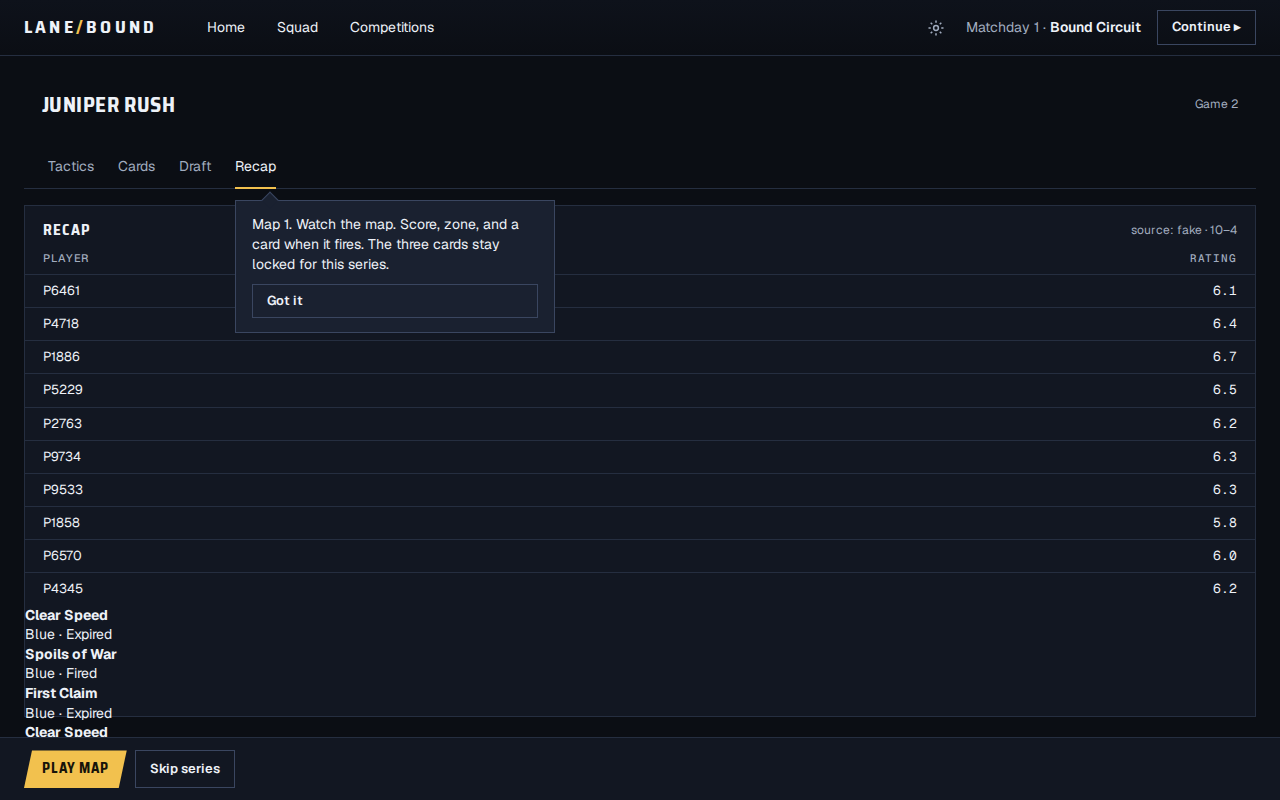
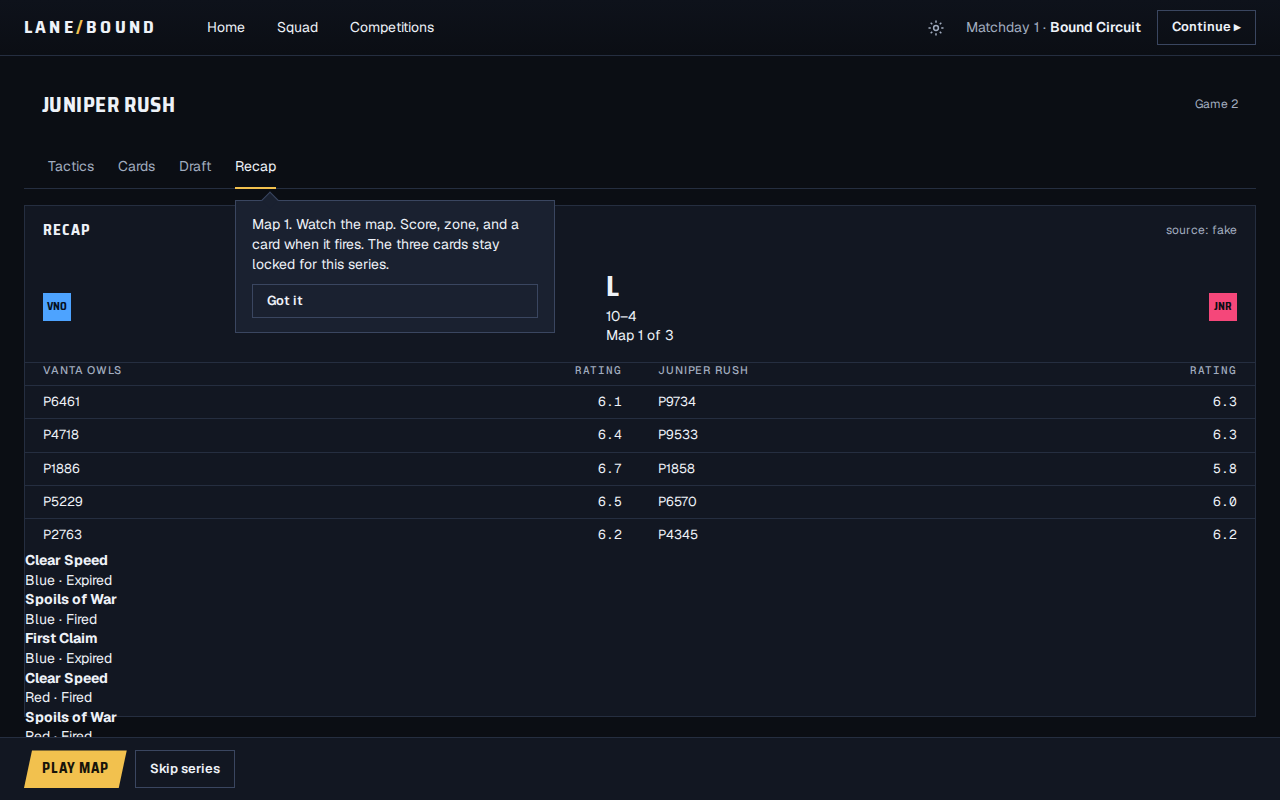
Lead the recap with the result and two rating columns.
The strip shows W or L, the score, both crests, and the map number. Ratings sit in one column per team.

diff --git a/apps/career/src/match.tsx b/apps/career/src/match.tsx
@@ -1,4 +1,4 @@
-import { arenaCard, draftPreview, latestMap, loadoutReport, playNextMap, setLoadout, setPreset, skipSeries, ARENA_CARDS, type CareerSession } from "@lanebound/career";
+import { arenaCard, draftPreview, latestMap, loadoutReport, playNextMap, setLoadout, setPreset, skipSeries, winsTarget, ARENA_CARDS, type CareerSession } from "@lanebound/career";
 import { useLayoutEffect, useState } from "react";
 import { Button } from "./ui/button";
 
@@ -42,7 +42,6 @@ export function MatchDeck({
   const report = loadoutReport(picked);
   const draft = draftPreview(session);
   const club = session.clubs.find((item) => item.id === session.player_club_id);
-  const map = latestMap(session);
   const [hiddenMark, setHiddenMark] = useState<number | null>(null);
   const markIndex = session.maps_played;
   const mark = markIndex >= 1 && markIndex <= 5 && hiddenMark !== markIndex ? COACH[markIndex - 1] : null;
@@ -138,7 +137,7 @@ export function MatchDeck({
             ))}
           </section>
       ) : null}
-      {mode === "recap" ? <Recap map={map} players={session.players} /> : null}
+      {mode === "recap" ? <Recap session={session} /> : null}
       </div>
       <div className="matchfoot" data-testid="match-footer">
             <Button
@@ -192,33 +191,56 @@ function CoachMark({ text, target, onClose }: { text: string; target: string; on
   );
 }
 
-function Recap({ map, players }: { map: ReturnType<typeof latestMap>; players: CareerSession["players"] }) {
+function Recap({ session }: { session: CareerSession }) {
+  const map = latestMap(session);
   if (!map) {
     return <section className="empty">No map yet.</section>;
   }
-  const name = new Map(players.map((player) => [player.id, player.name]));
+  const fixtureId = session.open_fixture_id ?? session.series[session.series.length - 1]?.fixture_id;
+  const fixture = session.schedule.find((item) => item.id === fixtureId);
+  const blue = session.clubs.find((club) => club.id === fixture?.team_ids[0]);
+  const red = session.clubs.find((club) => club.id === fixture?.team_ids[1]);
+  const humanSide = fixture?.team_ids[1] === session.player_club_id ? "red" : "blue";
+  const maps = fixture ? winsTarget(fixture.format) * 2 - 1 : map.game_index;
+  const name = new Map(session.players.map((player) => [player.id, player.name]));
+  const sideRows = (side: "blue" | "red") => map.players.filter((player) => player.side === side);
   return (
     <section className="card" data-testid="recap" data-screen="recap-fake">
       <div className="ch">
         <h3>Recap</h3>
-        <span className="meta">
-          source: fake · {map.score_blue}–{map.score_red}
-        </span>
+        <span className="meta">source: fake</span>
       </div>
-      <table>
-        <tbody>
-          <tr>
-            <th>Player</th>
-            <th className="n">Rating</th>
-          </tr>
-          {map.players.map((player) => (
-            <tr key={player.player_id}>
-              <td>{name.get(player.player_id) ?? player.player_id}</td>
-              <td className="n">{player.rating.toFixed(1)}</td>
-            </tr>
-          ))}
-        </tbody>
-      </table>
+      <div className="result" data-testid="result-strip">
+        <div className="crest sm blue">{blue?.tag}</div>
+        <div>
+          <div className="disp">{map.winner === humanSide ? "W" : "L"}</div>
+          <div className="meta">
+            {map.score_blue}–{map.score_red}
+          </div>
+          <div className="meta">
+            Map {map.game_index} of {maps}
+          </div>
+        </div>
+        <div className="crest sm red">{red?.tag}</div>
+      </div>
+      <div className="ratecols">
+        {(["blue", "red"] as const).map((side) => (
+          <table key={side} data-testid={`ratings-${side}`}>
+            <tbody>
+              <tr>
+                <th>{side === "blue" ? blue?.name : red?.name}</th>
+                <th className="n">Rating</th>
+              </tr>
+              {sideRows(side).map((player) => (
+                <tr key={player.player_id}>
+                  <td>{name.get(player.player_id) ?? player.player_id}</td>
+                  <td className="n">{player.rating.toFixed(1)}</td>
+                </tr>
+              ))}
+            </tbody>
+          </table>
+        ))}
+      </div>
       {map.cards.map((card, index) => (
         <div className="dec" key={`${card.card_id}-${index}`}>
           <b>{arenaCard(card.card_id)?.name ?? card.card_id}</b>

diff --git a/apps/career/e2e/cd-c6.spec.ts b/apps/career/e2e/cd-c6.spec.ts
@@ -81,6 +81,24 @@ test("the coach mark floats and leaves its target where it was", async ({ page }
   expect(width).toBeLessThanOrEqual(320);
 });
 
+test("the recap leads with the result and splits ratings by team", async ({ page }) => {
+  await page.setViewportSize({ width: 1440, height: 900 });
+  await start(page);
+  await page.getByRole("button", { name: "Continue" }).click();
+  await page.getByTestId("play-map").click();
+  const strip = page.getByTestId("result-strip");
+  await expect(strip).toBeVisible();
+  await expect(strip.locator(".disp")).toHaveText(/^[WL]$/);
+  await expect(strip).toContainText(/\d+–\d+/);
+  await expect(strip).toContainText(/Map \d+ of \d+/);
+  await expect(strip.locator(".crest")).toHaveCount(2);
+  const blue = await page.getByTestId("ratings-blue").innerText();
+  const red = await page.getByTestId("ratings-red").innerText();
+  expect(blue).toMatch(/\d+\.\d/);
+  expect(red).toMatch(/\d+\.\d/);
+  expect(blue).not.toBe(red);
+});
+
 async function expectOne(page: Page, screen: string) {
   for (const pane of ["tactics", "cards", "draft"]) {
     await expect(page.locator(`section[data-screen="${pane}"]`)).toHaveCount(pane === screen ? 1 : 0);

diff --git a/apps/career/src/app.css b/apps/career/src/app.css
@@ -70,6 +70,9 @@ button.btn-primary:disabled {
 .coach { position: fixed; z-index: 15; width: 320px; max-width: 320px; background: var(--c-panel-2); border: 1px solid var(--c-line-2); padding: 14px 16px; display: grid; gap: 10px; }
 .coach p { margin: 0; }
 .coachcaret { position: absolute; top: -7px; left: 28px; width: 12px; height: 12px; background: var(--c-panel-2); border-left: 1px solid var(--c-line-2); border-top: 1px solid var(--c-line-2); transform: rotate(45deg); }
+.result { display: flex; align-items: center; justify-content: space-between; gap: 16px; padding: 16px 18px; border-bottom: 1px solid var(--c-line); }
+.result .disp { font-size: 28px; }
+.ratecols { display: grid; grid-template-columns: 1fr 1fr; }
 .sub { display: flex; gap: 8px; }
 .sub button.on { background: var(--c-panel-2); }
 .match { border: 1px solid var(--c-line); padding: 12px; display: grid; gap: 6px; }
